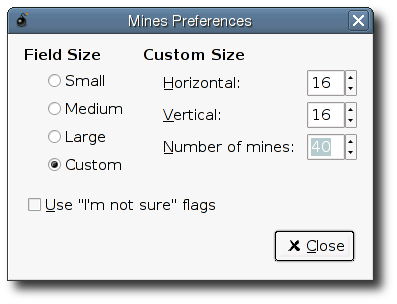
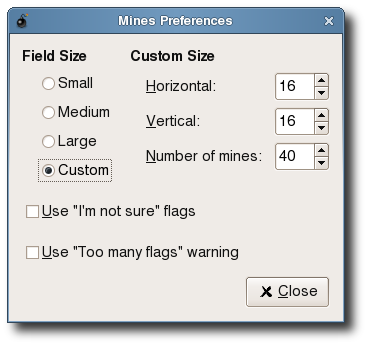
Warning when placing too many markers around a mine. Patch by Zinx Verituse.

diff --git a/gnomine/minefield.c b/gnomine/minefield.c
@@ -171,7 +171,7 @@ static void gtk_minefield_setup_signs(GtkMineField *mfield)
 {
 	static GtkWidget * warning_dialog = NULL;
 	static gchar * warning_message = NULL;
-	gchar * flagfile, * minefile, * questionfile, * bangfile;
+	gchar * flagfile, * minefile, * questionfile, * bangfile, * warningfile;
 
 	flagfile = gnome_program_locate_file (NULL, GNOME_FILE_DOMAIN_APP_PIXMAP,
 					      "gnomine/flag.svg", TRUE, NULL);
@@ -183,12 +183,16 @@ static void gtk_minefield_setup_signs(GtkMineField *mfield)
 	bangfile = gnome_program_locate_file (NULL, GNOME_FILE_DOMAIN_APP_PIXMAP,
 					      "gnomine/bang.svg", TRUE, NULL); 
 
+	warningfile = gnome_program_locate_file (NULL, GNOME_FILE_DOMAIN_APP_PIXMAP,
+						 "gnomine/warning.svg", TRUE, NULL);
+
         setup_sign (&mfield->flag, flagfile, mfield->minesize);
         setup_sign (&mfield->mine, minefile, mfield->minesize);
         setup_sign (&mfield->question, questionfile, mfield->minesize);
 	setup_sign (&mfield->bang, bangfile, mfield->minesize);
+	setup_sign (&mfield->warning, warningfile, mfield->minesize);
 
-	if ((!flagfile || !minefile || !questionfile || !bangfile) &&
+	if ((!flagfile || !minefile || !questionfile || !bangfile || !warningfile) &&
 	    (warning_message == NULL)) {
 		warning_message = _("Unable to find required images.\n\nPlease check your gnome-games installation.");
 	}
@@ -196,7 +200,8 @@ static void gtk_minefield_setup_signs(GtkMineField *mfield)
 	if ( (!mfield->flag.preimage || 
 	      !mfield->mine.preimage || 
 	      !mfield->question.preimage ||
-	      !mfield->bang.preimage) && 
+	      !mfield->bang.preimage ||
+	      !mfield->warning.preimage) && 
 	     (warning_message == NULL) ) {
 		warning_message = _("Required images have been found, but refused to load.\n\nPlease check your installation of gnome-games and its dependencies.");
 	}
@@ -395,7 +400,7 @@ static void gtk_mine_draw(GtkMineField *mfield, guint x, guint y)
         int c = cell_idx(mfield, x, y);
 	int noshadow;
 	gboolean clicked;
-	int n;
+	int n, nm;
 	guint minesize;
         static GdkGC *dots;
         static const char stipple_data[]  = { 0x03, 0x03, 0x0c, 0x0c };
@@ -480,8 +485,22 @@ static void gtk_mine_draw(GtkMineField *mfield, guint x, guint y)
         }
 
 	if (mfield->mines[c].shown && !mfield->mines[c].mined) {
-		if ((n = mfield->mines[c].neighbours) != 0) {
-			g_assert (n >= 0 && n <= 9);
+		n = mfield->mines[c].neighbours;
+		g_assert (n >= 0 && n <= 9);
+
+		nm = mfield->mines[c].neighbourmarks;
+		g_assert (nm >= 0 && nm <= 9);
+
+		if (mfield->use_overmine_warning && n < nm) {
+			gdk_draw_pixbuf (widget->window, NULL,
+					 mfield->warning.scaledpixbuf, 0, 0, 
+					 x * minesize + (minesize - mfield->warning.width) / 2, 
+					 y * minesize + (minesize - mfield->warning.height) / 2,
+					 mfield->warning.width, mfield->warning.height,
+					 GDK_RGB_DITHER_NORMAL, 0, 0);
+		}
+
+		if (n != 0) {
 			gdk_draw_layout(widget->window,
 					widget->style->black_gc,
 					x*minesize + mfield->numstr[n].dx,
@@ -730,6 +749,16 @@ static void gtk_minefield_randomize (GtkMineField *mfield, int curloc)
 				}
 			}
 			mfield->mines[x+mfield->xsize * y].neighbours = n;
+
+			n = 0;
+			for (i=0; i<8; i++) {
+				if (((cidx = cell_idx(mfield, x + neighbour_map[i].x,
+				                      y+neighbour_map[i].y)) != -1) &&
+					mfield->mines[cidx].marked == MINE_MARKED) {
+					n++;
+				}
+			}
+			mfield->mines[x+mfield->xsize * y].neighbourmarks = n;
 		}
 	}
 }
@@ -762,6 +791,7 @@ static void gtk_minefield_show(GtkMineField *mfield, guint x, guint y)
 static void gtk_minefield_toggle_mark(GtkMineField *mfield, guint x, guint y)
 {
         int c = cell_idx(mfield, x, y);
+	int nx, ny, i, c2;
 
 	g_return_if_fail (c != -1);
 
@@ -782,6 +812,17 @@ static void gtk_minefield_toggle_mark(GtkMineField *mfield, guint x, guint y)
 		}
 		mfield->mines[c].marked = MINE_MARKED;
 		mfield->flag_count++;
+
+		for (i=0; i<8; i++) {
+			nx = x+neighbour_map[i].x;
+			ny = y+neighbour_map[i].y;
+			if ((c2 = cell_idx(mfield, nx, ny)) == -1)
+				continue;
+			mfield->mines[c2].neighbourmarks++;
+			if (mfield->mines[c2].neighbourmarks == (mfield->mines[c2].neighbours+1))
+				gtk_mine_draw(mfield, nx, ny);
+		}
+
 		break;
 	case MINE_MARKED:
 		if (mfield->use_question_marks) {
@@ -790,6 +831,17 @@ static void gtk_minefield_toggle_mark(GtkMineField *mfield, guint x, guint y)
 			mfield->mines[c].marked = MINE_NOMARK;
 		}
 		mfield->flag_count--;
+
+		for (i=0; i<8; i++) {
+			nx = x+neighbour_map[i].x;
+			ny = y+neighbour_map[i].y;
+			if ((c2 = cell_idx(mfield, nx, ny)) == -1)
+				continue;
+			mfield->mines[c2].neighbourmarks--;
+			if (mfield->mines[c2].neighbourmarks == mfield->mines[c2].neighbours)
+				gtk_mine_draw(mfield, nx, ny);
+		}
+
 		break;
 	case MINE_QUESTION:
 		mfield->mines[c].marked = MINE_NOMARK;
@@ -826,7 +878,7 @@ static void gtk_minefield_multi_press(GtkMineField *mfield,
 
 static void gtk_minefield_multi_release (GtkMineField *mfield, guint x, guint y, guint c, guint really)
 {
-        gint n, nx, ny, i, c2;
+        gint nx, ny, i, c2;
 	guint lose = 0;
 
 	
@@ -835,16 +887,7 @@ static void gtk_minefield_multi_release (GtkMineField *mfield, guint x, guint y,
 
         mfield->multi_mode = 0;
 
-        n = 0;
-        for (i=0; i<8; i++) {
-                nx = x+neighbour_map[i].x;
-                ny = y+neighbour_map[i].y;
-                if ((c2 = cell_idx(mfield, nx, ny)) == -1)
-                        continue;
-		if (mfield->mines[c2].marked == MINE_MARKED)
-			n++;
-        }
-        if (mfield->mines[c].neighbours != n ||
+        if (mfield->mines[c].neighbours != mfield->mines[c].neighbourmarks ||
 	    mfield->mines[c].marked == MINE_MARKED ||
 	    !mfield->mines[c].shown)
 			really = 0;
@@ -1141,6 +1184,7 @@ static void gtk_minefield_init (GtkMineField *mfield)
         mfield->mine.preimage = NULL;
 	mfield->question.preimage = NULL;
 	mfield->bang.preimage = NULL;
+	mfield->warning.preimage = NULL;
 	mfield->grand = g_rand_new ();
 	mfield->thick_line = NULL;
 }
@@ -1234,6 +1278,16 @@ void gtk_minefield_set_use_question_marks(GtkMineField *mfield, gboolean use_que
 	g_return_if_fail(GTK_IS_MINEFIELD(mfield));
 	
 	mfield->use_question_marks = use_question_marks;
+}
+
+void gtk_minefield_set_use_overmine_warning(GtkMineField *mfield, gboolean use_overmine_warning)
+{
+	g_return_if_fail(mfield != NULL);
+	g_return_if_fail(GTK_IS_MINEFIELD(mfield));
+	
+	mfield->use_overmine_warning = use_overmine_warning;
+
+	gtk_widget_queue_draw(GTK_WIDGET(mfield));
 }
 
 /* Hunt for a hint to give the player. Revealed squares are handled here,

diff --git a/gnomine/gnomine.c b/gnomine/gnomine.c
@@ -52,6 +52,7 @@
 #define KEY_NMINES "/apps/gnomine/geometry/nmines"
 #define KEY_MODE "/apps/gnomine/geometry/mode"
 #define KEY_USE_QUESTION_MARKS "/apps/gnomine/use_question_marks"
+#define KEY_USE_OVERMINE_WARNING "/apps/gnomine/use_overmine_warning"
 #define KEY_WIDTH    	       "/apps/gnomine/geometry/width"
 #define KEY_HEIGHT   	       "/apps/gnomine/geometry/height"
 
@@ -72,6 +73,7 @@ gint ysize = -1, xsize = -1;
 gint nmines = -1;
 gint fsize = -1;
 gboolean use_question_marks = TRUE;
+gboolean use_overmine_warning = TRUE;
 
 GtkAction *hint_action;
 GtkAction *fullscreen_action;
@@ -504,6 +506,10 @@ gconf_key_change_cb (GConfClient *client, guint cnxn_id,
 		use_question_marks = value ? gconf_value_get_bool (value) : TRUE;
 		gtk_minefield_set_use_question_marks(GTK_MINEFIELD(mfield), use_question_marks);
 	}
+	if (strcmp (key, KEY_USE_OVERMINE_WARNING) == 0) {
+		use_overmine_warning = value ? gconf_value_get_bool (value) : TRUE;
+		gtk_minefield_set_use_overmine_warning(GTK_MINEFIELD(mfield), use_overmine_warning);
+	}
 }
 
 static void
@@ -574,6 +580,14 @@ use_question_toggle_cb (GtkCheckButton *check, gpointer data)
 }
 
 static void
+use_overmine_toggle_cb (GtkCheckButton *check, gpointer data)
+{
+	gboolean use_overmine = gtk_toggle_button_get_active (GTK_TOGGLE_BUTTON (check));
+	gconf_client_set_bool (conf_client, KEY_USE_OVERMINE_WARNING,
+				use_overmine, NULL);
+}
+
+static void
 set_fullscreen_actions (gboolean is_fullscreen)
 {
 	gtk_action_set_sensitive (leavefullscreen_action, is_fullscreen);
@@ -611,10 +625,11 @@ create_preferences (void)
 	GtkWidget *table2;
 	GtkWidget *label2;
 	GtkWidget *question_toggle;        
+	GtkWidget *overmine_toggle;
 	GtkWidget *xentry;
 	GtkWidget *yentry;
 
-	table = gtk_table_new (2, 2, FALSE);
+	table = gtk_table_new (3, 2, FALSE);
 	gtk_container_set_border_width (GTK_CONTAINER (table), 5);
 	gtk_table_set_row_spacings (GTK_TABLE (table), 18);
 	gtk_table_set_col_spacings (GTK_TABLE (table), 18);
@@ -721,6 +736,15 @@ create_preferences (void)
 	gtk_widget_show(question_toggle);
 	
 	gtk_table_attach_defaults (GTK_TABLE (table), question_toggle, 0, 2, 1, 2);
+
+
+	overmine_toggle = gtk_check_button_new_with_mnemonic(_("_Use \"Too many flags\" warning"));
+	g_signal_connect(GTK_OBJECT(overmine_toggle), "toggled",
+			GTK_SIGNAL_FUNC (use_overmine_toggle_cb), NULL);
+	gtk_toggle_button_set_active(GTK_TOGGLE_BUTTON(overmine_toggle), use_overmine_warning);
+	gtk_widget_show(overmine_toggle);
+	
+	gtk_table_attach_defaults (GTK_TABLE (table), overmine_toggle, 0, 2, 2, 3);
 
 
 	pref_dialog = gtk_dialog_new_with_buttons (_("Mines Preferences"),
@@ -964,6 +988,9 @@ main (int argc, char *argv[])
 	use_question_marks = gconf_client_get_bool (conf_client, 
 						    KEY_USE_QUESTION_MARKS,
 						    NULL);
+	use_overmine_warning = gconf_client_get_bool (conf_client, 
+						      KEY_USE_OVERMINE_WARNING,
+						      NULL);
 	width = gconf_client_get_int (conf_client, KEY_WIDTH, NULL);
 	width = width > 0 ? width : WIDTH_DEFAULT;
 	height = gconf_client_get_int (conf_client, KEY_HEIGHT, NULL);
@@ -1048,6 +1075,9 @@ main (int argc, char *argv[])
 	
 	gtk_minefield_set_use_question_marks (GTK_MINEFIELD (mfield),
 					      use_question_marks);
+	
+	gtk_minefield_set_use_overmine_warning (GTK_MINEFIELD (mfield),
+					      use_overmine_warning);
 	
 	g_signal_connect (G_OBJECT (mfield), "marks_changed",
 			  G_CALLBACK (marks_changed), NULL);

diff --git a/gnomine/minefield.h b/gnomine/minefield.h
@@ -41,6 +41,7 @@ struct _Mine {
 	guint marked:2;
 	guint down:1;
 	guint neighbours;
+	guint neighbourmarks;
 };
 
 typedef struct _Mine mine;
@@ -75,6 +76,7 @@ struct _GtkMineField {
         sign mine;
 	sign question;
         sign bang;
+	sign warning;
         GRand * grand;
 	GdkGC *thick_line;
   
@@ -88,6 +90,7 @@ struct _GtkMineField {
 	gint in_play;
 	
 	gboolean use_question_marks;
+	gboolean use_overmine_warning;
 };
 
 struct _GtkMineFieldClass
@@ -109,6 +112,7 @@ GtkWidget* gtk_minefield_new      (void);
 void gtk_minefield_set_size (GtkMineField *mfield, guint xsize, guint ysize);
 void gtk_minefield_restart (GtkMineField *mfield);
 void gtk_minefield_set_use_question_marks (GtkMineField *mfield, gboolean use_question_marks);
+void gtk_minefield_set_use_overmine_warning (GtkMineField *mfield, gboolean use_overmine_warning);
 gint gtk_minefield_hint (GtkMineField *mfield);
   
 #ifdef __cplusplus
